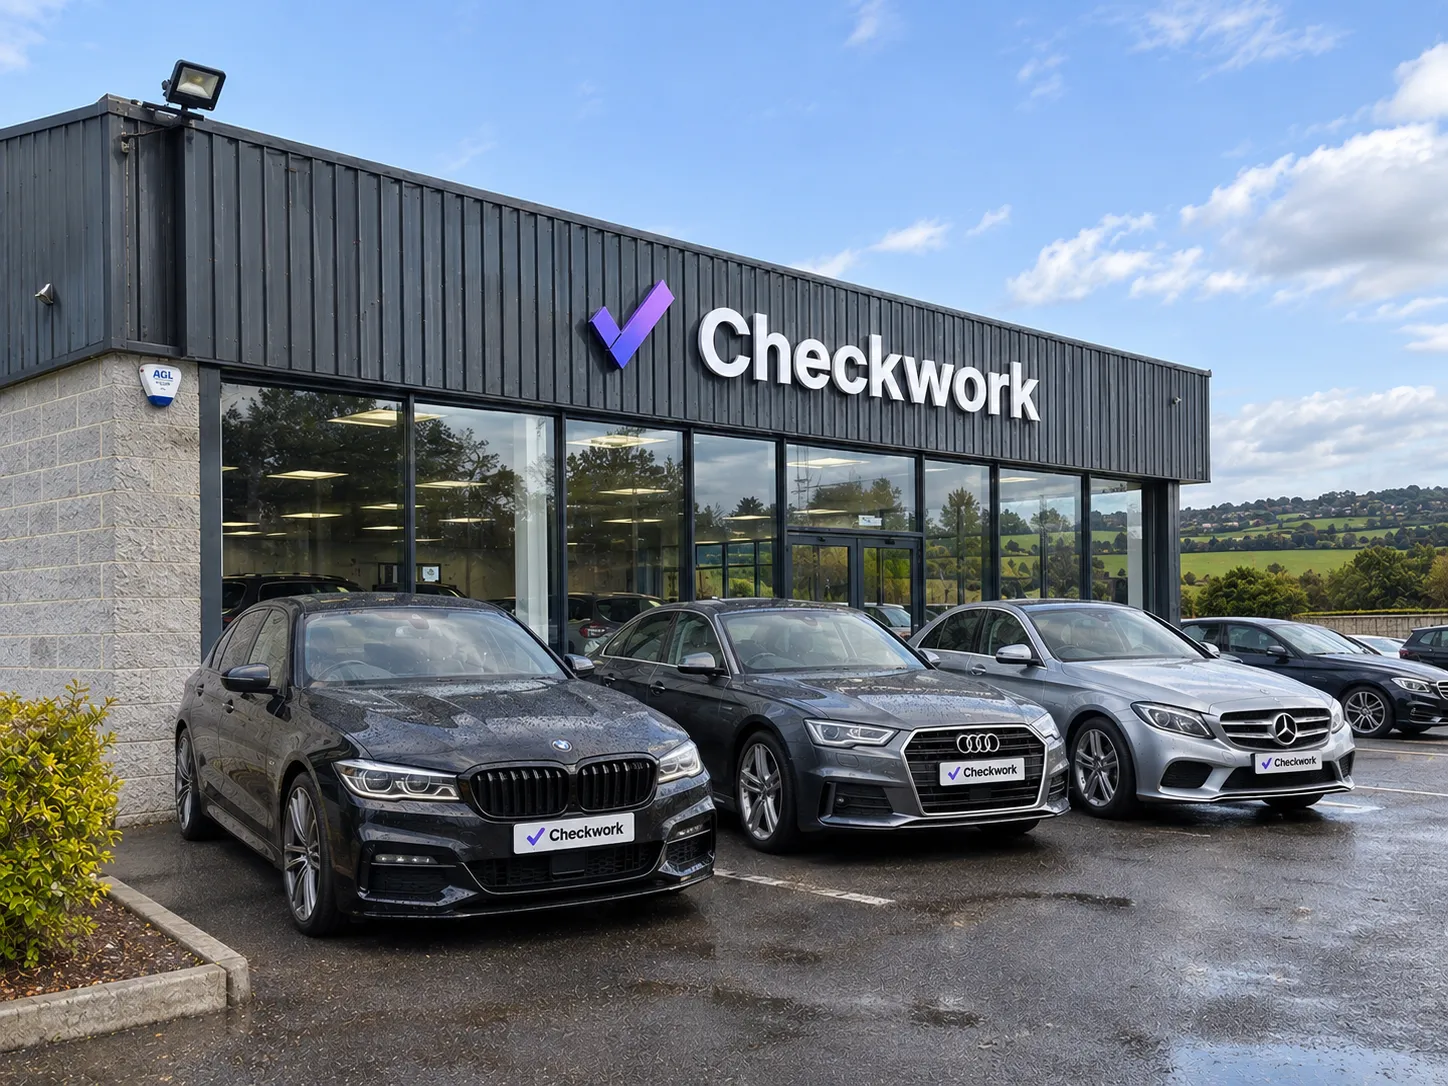
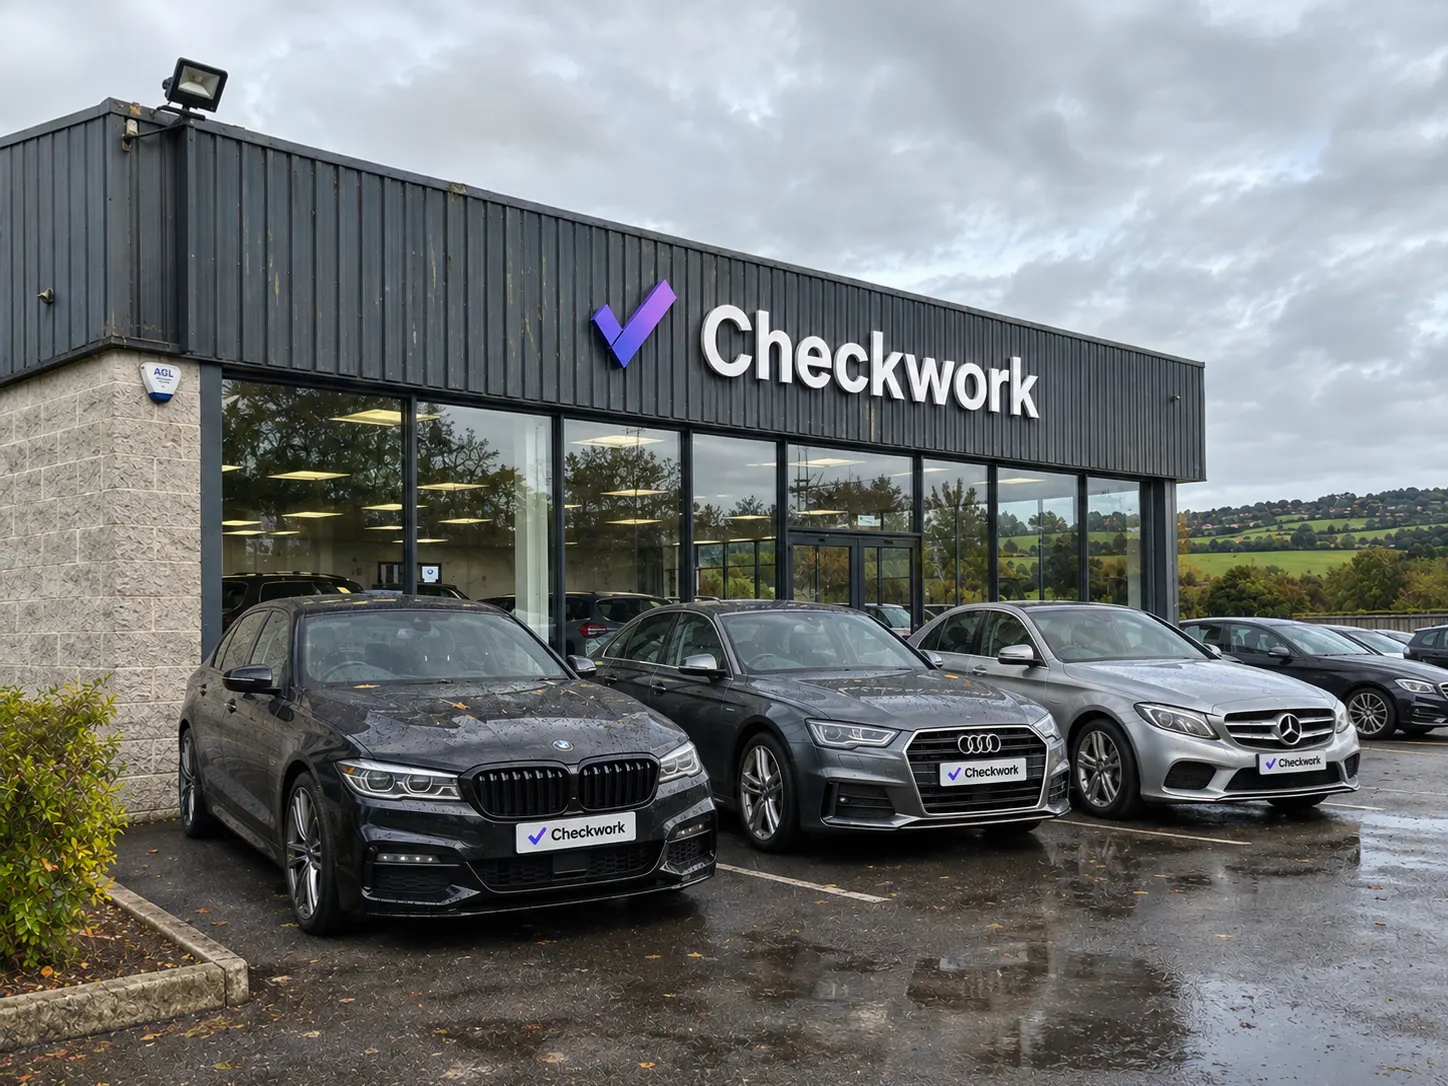
Dusk hero for the dark theme, showroom photo on About, crops that work on a phone
- Light hero is the overcast forecourt; the dark theme shows the same scene at dusk. The dusk image is lazy, so in the light theme it is never downloaded.
- Phones crop the hero to the lit corner and the checkmark, so no half-letters of the sign sit behind the words; tablets and up keep the sign and cars.
- About shows the showroom inside instead of a second forecourt shot.
- PagePhoto takes an optional object-position; the service photo keeps the car's roof on a phone.

diff --git a/src/components/home/HeroMosaic.tsx b/src/components/home/HeroMosaic.tsx
@@ -3,11 +3,17 @@ import { HOME } from "@/lib/home.config";
 // The hero's picture, behind the section: the dealership photo with the light of a showroom window. Decorative (no alt). Two gradients
 // keep the words readable: from the bottom on a phone, from the left on a desktop. A phone gets the 960px file. The last 7rem fades into the
 // page, so the photo has no hard edge; the section keeps that much room below its content.
+// 4:3 photo in a wide box: a slice that keeps the sign and the cars. On a phone the box is tall and the slice narrow: the lit corner, the first car and the checkmark, with no half-letters behind the words.
+const photo = "size-full object-cover object-[8%_50%] sm:object-[55%_45%]";
+
 export function HeroMosaic() {
   return (
     <div aria-hidden="true" className="absolute inset-0 -z-10 bg-band [mask-image:linear-gradient(to_bottom,#000_calc(100%-7rem),transparent)]">
       {/* eslint-disable-next-line @next/next/no-img-element -- a fixed local file, sized by its box */}
-      <img src={HOME.heroPhoto} srcSet={`${HOME.heroPhotoSmall} 960w, ${HOME.heroPhoto} 1448w`} sizes="100vw" alt="" width={1448} height={1086} fetchPriority="high" className="size-full object-cover object-[55%_45%]" />
+      <img src={HOME.heroPhoto} srcSet={`${HOME.heroPhotoSmall} 960w, ${HOME.heroPhoto} 1448w`} sizes="100vw" alt="" width={1448} height={1086} fetchPriority="high" className={`${photo} dark:hidden`} />
+      {/* The dusk photo for the dark theme. Lazy, so a hidden one is never downloaded: the light theme costs nothing extra. */}
+      {/* eslint-disable-next-line @next/next/no-img-element -- a fixed local file, sized by its box */}
+      <img src={HOME.heroPhotoDark} srcSet={`${HOME.heroPhotoDarkSmall} 960w, ${HOME.heroPhotoDark} 1448w`} sizes="100vw" alt="" width={1448} height={1086} loading="lazy" className={`${photo} hidden dark:block`} />
       <div className="absolute inset-0 bg-gradient-to-t from-band/95 via-band/75 to-band/45 lg:bg-gradient-to-r lg:from-band/80 lg:via-band/30 lg:to-transparent" />
     </div>
   );

diff --git a/src/components/PageHeading.tsx b/src/components/PageHeading.tsx
@@ -34,8 +34,9 @@ export function PageHeading({ title, intro, actions, picture }: { title: string;
 }
 
 // A photo of the place (the forecourt, the showroom): wide and short on a phone, 4:3 beside the title.
-export function PagePhoto({ src, width, height }: { src: string; width: number; height: number }) {
-  return <Image src={src} width={width} height={height} alt="" priority sizes="(min-width: 1024px) 26rem, 100vw" className="aspect-[21/9] w-full rounded-tile object-cover lg:aspect-[16/10]" />;
+// `position` (an object-position class) picks the part that survives the wide crop on a phone, when the middle is the wrong part.
+export function PagePhoto({ src, width, height, position = "" }: { src: string; width: number; height: number; position?: string }) {
+  return <Image src={src} width={width} height={height} alt="" priority sizes="(min-width: 1024px) 26rem, 100vw" className={`aspect-[21/9] w-full rounded-tile object-cover lg:aspect-[16/10] ${position}`} />;
 }
 
 // A car from the stock on its lit plinth, as on the cards: for the pages about buying one (finance, trade-in). Not on a phone: it is

diff --git a/e2e/home.spec.ts b/e2e/home.spec.ts
@@ -211,7 +211,7 @@ test("the hero uses the dealer's photo, and the header logo is the vector one, i
   await page.goto("/");
   await expect(page.locator("main section").first().locator("img").first()).toHaveAttribute("src", "/brand/hero.webp");
   await expect(page.getByRole("banner").getByRole("img", { name: SITE_NAME })).toHaveAttribute("src", "/brand/logo-on-light.svg");
-  for (const path of ["/brand/hero.webp", "/brand/service.webp", "/brand/about.webp", "/brand/logo.svg", "/brand/logo-on-light.svg"]) expect((await request.get(path)).status(), path).toBe(200);
+  for (const path of ["/brand/hero.webp", "/brand/hero-dusk.webp", "/brand/service.webp", "/brand/about.webp", "/brand/logo.svg", "/brand/logo-on-light.svg"]) expect((await request.get(path)).status(), path).toBe(200);
 });
 
 test("every item in the trust strip is a link with the same padding, so the row lines up", async ({ page }) => {

diff --git a/src/lib/home.config.ts b/src/lib/home.config.ts
@@ -7,4 +7,6 @@ export const HOME = {
   heroIntro: "A carefully selected range of quality used cars, backed by trusted service and straightforward finance.",
   heroPhoto: "/brand/hero.webp", // the big hero tile (1448x1086, 4:3: cropped by its box)
   heroPhotoSmall: "/brand/hero-sm.webp", // the same photo at 960 wide, for phones
+  heroPhotoDark: "/brand/hero-dusk.webp", // the same scene at dusk, for the dark theme (same size)
+  heroPhotoDarkSmall: "/brand/hero-dusk-sm.webp",
 } as const;

diff --git a/src/app/service/page.tsx b/src/app/service/page.tsx
@@ -24,7 +24,7 @@ export default function ServicePage() {
       <PageHeading
         title="Service"
         intro="Keep your car running well. Call us to book it in, or choose a service to find out more."
-        picture={<PagePhoto src="/brand/service.webp" width={1200} height={900} />}
+        picture={<PagePhoto src="/brand/service.webp" width={1200} height={900} position="object-[50%_25%]" />}
         actions={
           <>
             <CallButton>Call {DEALER_PHONE}</CallButton>
